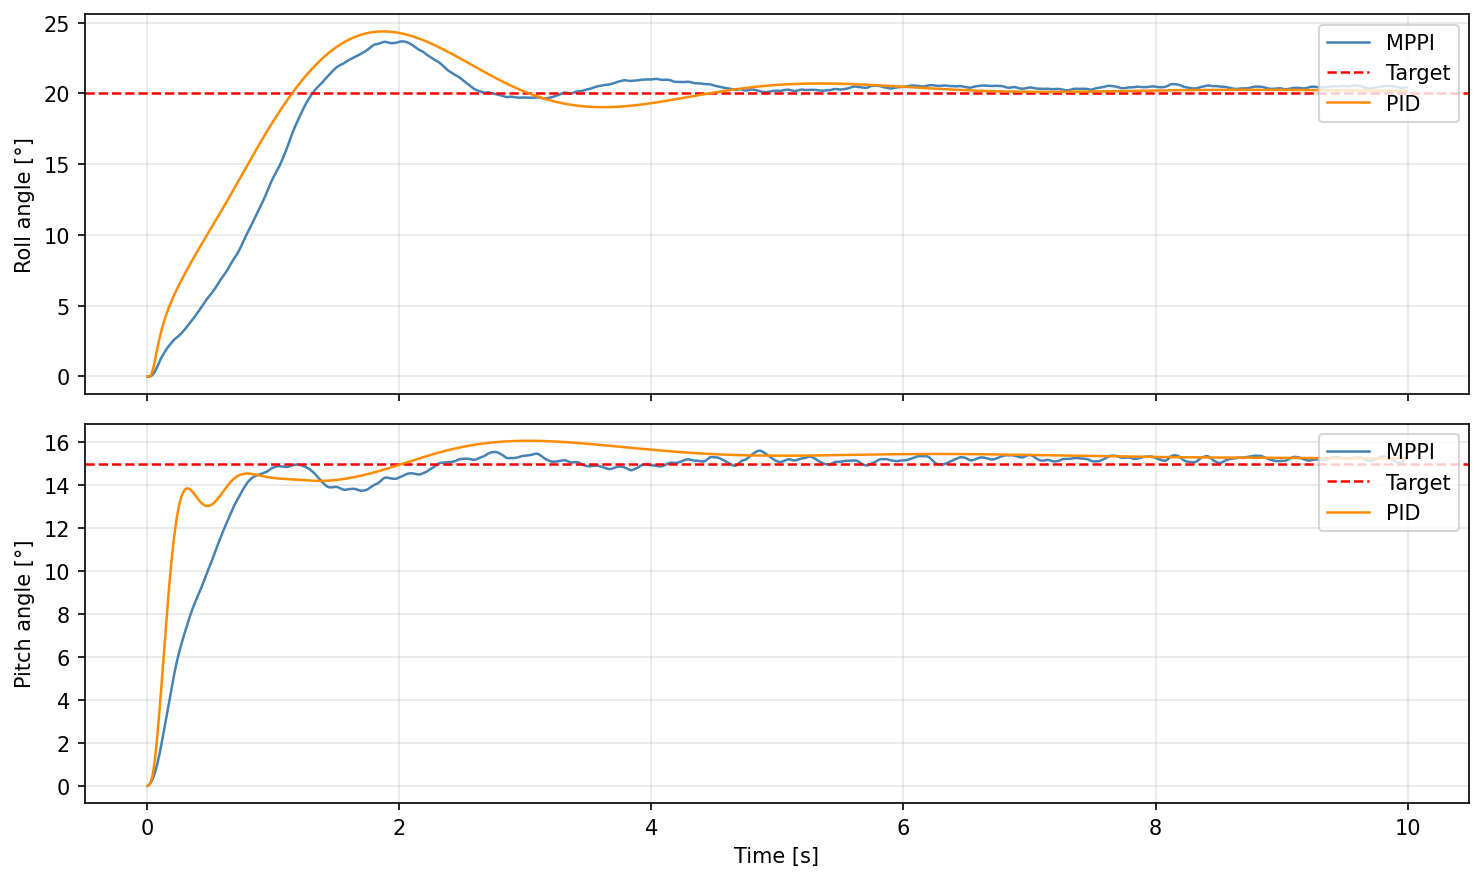
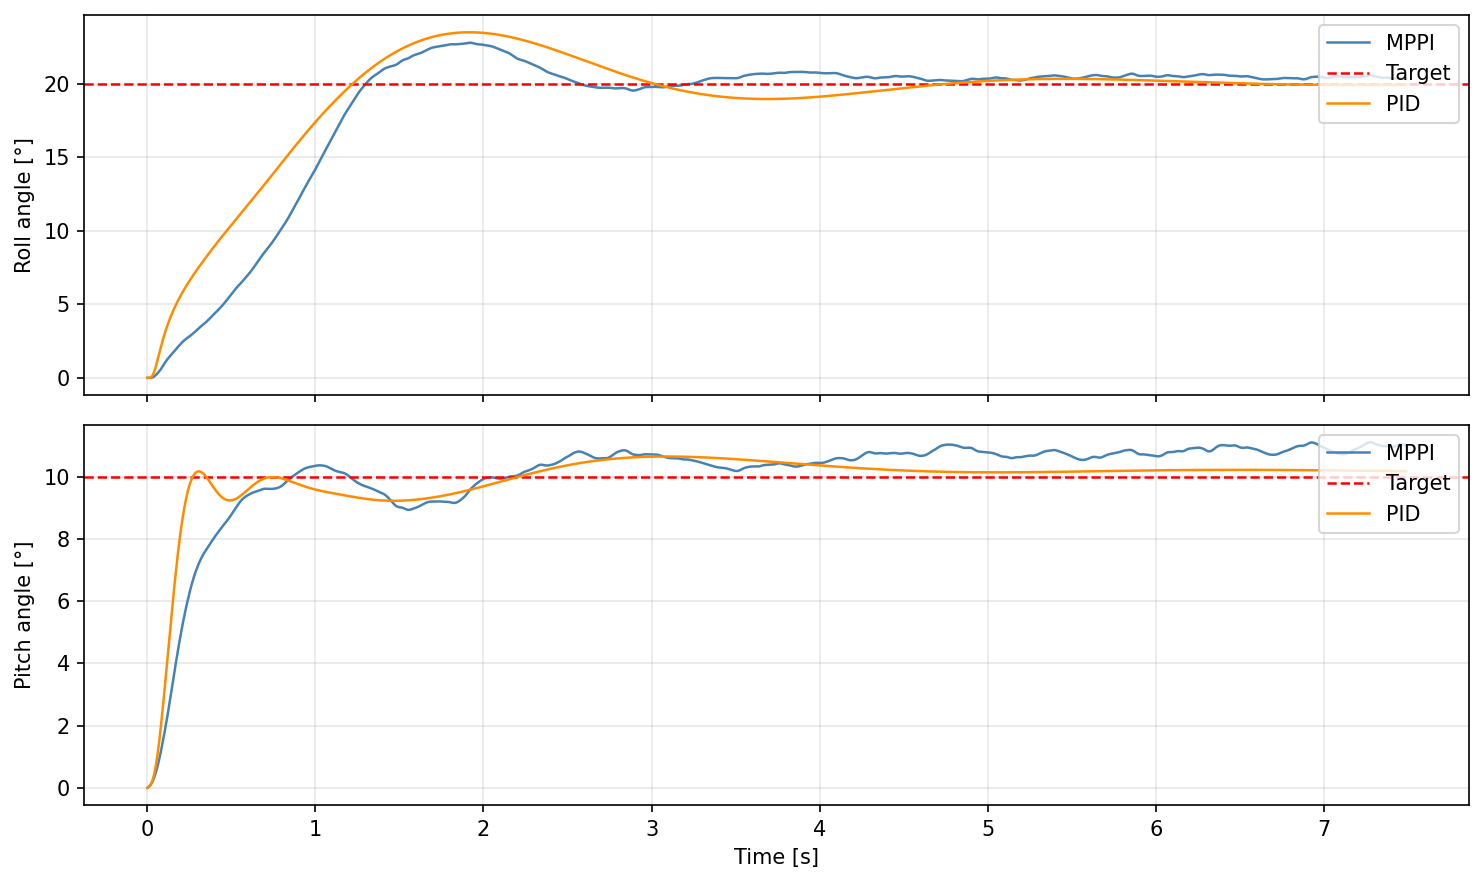
track actions over time pid/mppi + plots

diff --git a/fw_flightcontrol/physics/mppi_test.py b/fw_flightcontrol/physics/mppi_test.py
@@ -39,7 +39,8 @@ from fw_jsbgym.trim.trim_point import TrimPoint
 from fw_flightcontrol.physics.utils import (
     load_config, get_norm_type, normalize_state_torch, denormalize_state_torch,
     extract_bounds_from_config, compute_denorm_factors, compute_data_norm_params,
-    clean_state_dict_for_compilation, compute_convergence_stats, plot_tracking_performance,
+    clean_state_dict_for_compilation, compute_convergence_stats,
+    plot_tracking_performance, plot_action_history,
 )
 
 
@@ -484,6 +485,7 @@ def run_mppi_control(
 
     all_roll_deg   = []  # actual angle history across all episodes
     all_pitch_deg  = []
+    all_actions    = []
 
     for episode in range(max_episodes):
         print(f"\n{'='*60}")
@@ -569,6 +571,7 @@ def run_mppi_control(
 
         all_roll_deg.extend(episode_roll_deg)
         all_pitch_deg.extend(episode_pitch_deg)
+        all_actions.extend(actions_taken)
 
         print(f"\n{'='*60}")
         print(f"EPISODE {episode + 1} SUMMARY")
@@ -623,7 +626,7 @@ def run_mppi_control(
     print(f"MPPI Configuration:    samples={mppi_samples}, horizon={mppi_horizon}, temp={mppi_temperature}")
     print("="*60 + "\n")
 
-    return all_roll_deg, all_pitch_deg
+    return all_roll_deg, all_pitch_deg, np.array(all_actions)
 
 
 # ============================================================================
@@ -647,10 +650,13 @@ def run_pid_control(
     target_roll_rad  = np.deg2rad(target_roll)
     target_pitch_rad = np.deg2rad(target_pitch)
 
+    from fw_jsbgym.utils import jsbsim_properties as prp
+
     all_roll_errors  = []
     all_pitch_errors = []
     all_roll_deg     = []
     all_pitch_deg    = []
+    all_actions      = []
 
     for episode in range(max_episodes):
         pid_aileron = PID(
@@ -673,6 +679,7 @@ def run_pid_control(
         ep_pitch_errors = []
         ep_roll_deg     = []
         ep_pitch_deg    = []
+        ep_actions      = []
 
         for _ in range(max_steps_per_episode):
             roll, pitch = obs[0], obs[1]
@@ -683,6 +690,8 @@ def run_pid_control(
 
             obs, _, terminated, truncated, _ = env.step(np.array([aileron_cmd, elevator_cmd]))
 
+            throttle = env.unwrapped.sim[prp.throttle_cmd]
+            ep_actions.append([aileron_cmd, elevator_cmd, throttle])
             ep_roll_deg.append(np.rad2deg(obs[0]))
             ep_pitch_deg.append(np.rad2deg(obs[1]))
             ep_roll_errors.append(abs(ep_roll_deg[-1] - target_roll))
@@ -695,6 +704,7 @@ def run_pid_control(
         all_pitch_errors.extend(ep_pitch_errors)
         all_roll_deg.extend(ep_roll_deg)
         all_pitch_deg.extend(ep_pitch_deg)
+        all_actions.extend(ep_actions)
 
     roll_conv  = compute_convergence_stats(all_roll_deg,  target_roll,  threshold_deg=1.0)
     pitch_conv = compute_convergence_stats(all_pitch_deg, target_pitch, threshold_deg=1.0)
@@ -720,7 +730,7 @@ def run_pid_control(
     print("="*60 + "\n")
 
     env.close()
-    return all_roll_deg, all_pitch_deg
+    return all_roll_deg, all_pitch_deg, np.array(all_actions)
 
 
 # ============================================================================
@@ -735,15 +745,15 @@ def main():
                         help='Path to model checkpoint')
     parser.add_argument('--config', type=str, default='training_params.yaml',
                         help='Path to training configuration file')
-    parser.add_argument('--target-roll', type=float, default=-15,
+    parser.add_argument('--target-roll', type=float, default=20,
                         help='Target roll angle in degrees')
     parser.add_argument('--target-pitch', type=float, default=10,
                         help='Target pitch angle in degrees')
     parser.add_argument('--episodes', type=int, default=1,
                         help='Number of episodes to run')
-    parser.add_argument('--steps-per-episode', type=int, default=1000,
+    parser.add_argument('--steps-per-episode', type=int, default=750,
                         help='Max steps per episode')
-    parser.add_argument('--mppi-samples', type=int, default=400,
+    parser.add_argument('--mppi-samples', type=int, default=600,
                         help='Number of MPPI trajectory samples')
     parser.add_argument('--mppi-horizon', type=int, default=15,
                         help='MPPI prediction horizon (steps at 0.01s each)')
@@ -791,7 +801,7 @@ def main():
         return
     
     # Run MPPI control
-    mppi_roll, mppi_pitch = run_mppi_control(
+    mppi_roll, mppi_pitch, mppi_actions = run_mppi_control(
         env,
         hybrid_model,
         model_config,
@@ -810,10 +820,10 @@ def main():
         model_path=args.checkpoint,
     )
 
-    pid_roll, pid_pitch = None, None
+    pid_roll, pid_pitch, pid_actions = None, None, None
     if args.pid:
         env = initialize_environment(cfg)
-        pid_roll, pid_pitch = run_pid_control(
+        pid_roll, pid_pitch, pid_actions = run_pid_control(
             env,
             target_roll=args.target_roll,
             target_pitch=args.target_pitch,
@@ -828,6 +838,11 @@ def main():
         mppi_pitch=mppi_pitch,
         pid_roll=pid_roll,
         pid_pitch=pid_pitch,
+    )
+
+    plot_action_history(
+        mppi_actions=mppi_actions,
+        pid_actions=pid_actions,
     )
 
 

diff --git a/fw_flightcontrol/physics/utils.py b/fw_flightcontrol/physics/utils.py
@@ -519,3 +519,44 @@ def plot_tracking_performance(
     fig.savefig(save_path, dpi=150, bbox_inches='tight')
     plt.close(fig)
     print(f"Tracking plot saved to {save_path}")
+
+
+def plot_action_history(
+    filename: str = 'action_history.png',
+    mppi_actions: Optional[np.ndarray] = None,
+    pid_actions: Optional[np.ndarray] = None,
+    dt: float = 0.01,
+) -> None:
+    """Save a 3-subplot action history figure (aileron, elevator, throttle).
+
+    mppi_actions / pid_actions: arrays of shape (N, 3) — columns are
+    [aileron, elevator, throttle]. Either may be None.
+    Saved to FW-FlightControl/fw_flightcontrol/data/mppi-performance/.
+    """
+    import matplotlib
+    matplotlib.use('Agg')
+    import matplotlib.pyplot as plt
+
+    save_dir = Path(__file__).parent.parent / 'data' / 'mppi-performance'
+    save_dir.mkdir(parents=True, exist_ok=True)
+    save_path = save_dir / filename
+
+    labels   = ['Aileron command [-]', 'Elevator command [-]', 'Throttle command [-]']
+    fig, axes = plt.subplots(3, 1, figsize=(10, 8), sharex=True)
+
+    for i, (ax, ylabel) in enumerate(zip(axes, labels)):
+        if mppi_actions is not None:
+            t = np.arange(len(mppi_actions)) * dt
+            ax.plot(t, mppi_actions[:, i], color='steelblue', linewidth=1.0, label='MPPI')
+        if pid_actions is not None:
+            t = np.arange(len(pid_actions)) * dt
+            ax.plot(t, pid_actions[:, i], color='darkorange', linewidth=1.0, label='PID')
+        ax.set_ylabel(ylabel)
+        ax.legend(loc='upper right')
+        ax.grid(True, alpha=0.3)
+
+    axes[-1].set_xlabel('Time [s]')
+    fig.tight_layout()
+    fig.savefig(save_path, dpi=150, bbox_inches='tight')
+    plt.close(fig)
+    print(f"Action history plot saved to {save_path}")
